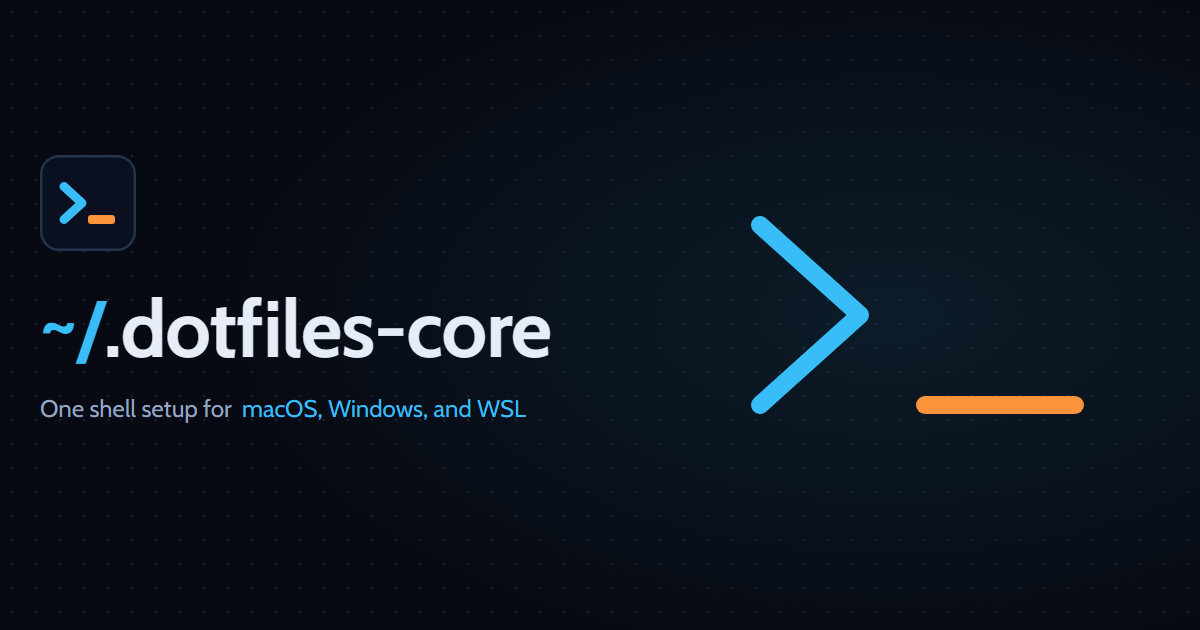
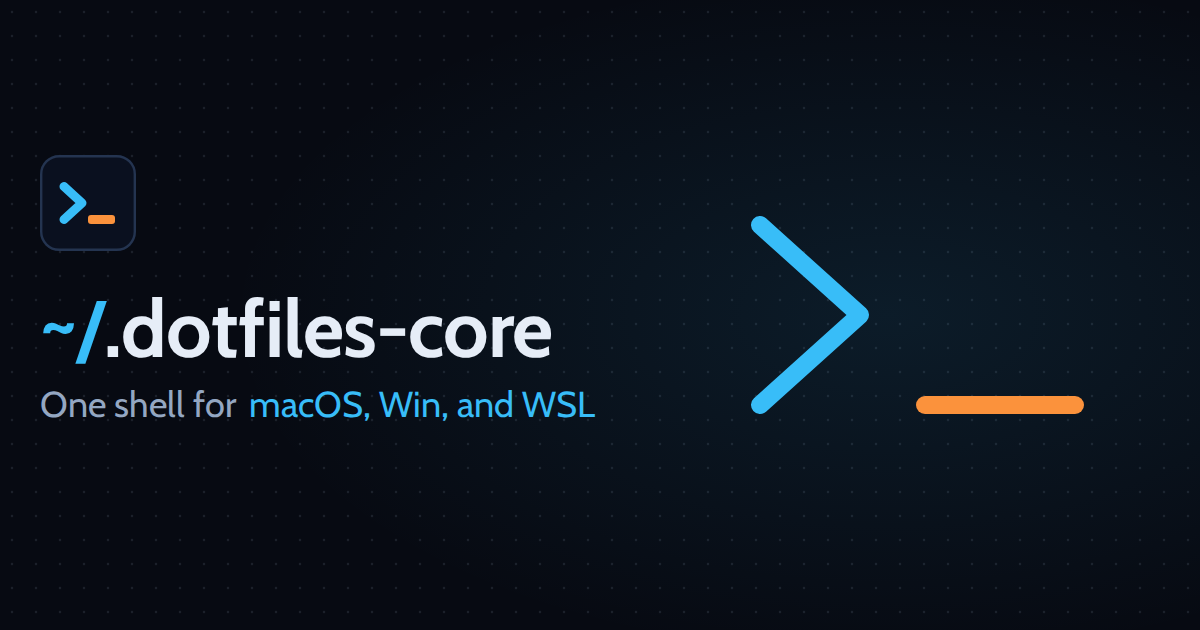
fix(brand): shorten the image tagline and cut 1.4.1 (#21)

Changed region(s): [[0.1233, 0.4825, 0.4625, 0.573], [0.0308, 0.6032, 0.4933, 0.6635]]

diff --git a/site/index.html b/site/index.html
@@ -30,12 +30,12 @@
   <meta property="og:image" content="https://dotfiles.marcopontili.com/og.png">
   <meta property="og:image:width" content="1200">
   <meta property="og:image:height" content="630">
-  <meta property="og:image:alt" content="~/.dotfiles-core: One shell setup for macOS, Windows, and WSL. A simple terminal prompt.">
+  <meta property="og:image:alt" content="~/.dotfiles-core: One shell for macOS, Win, and WSL. A simple terminal prompt.">
   <meta name="twitter:card" content="summary_large_image">
   <meta name="twitter:title" content="dotfiles-core: one shell setup for macOS, Windows, and WSL">
   <meta name="twitter:description" content="Cross-platform dotfiles for zsh, bash, Git Bash, and PowerShell. One shared sh layer, one manifest, symlinks into your home folder.">
   <meta name="twitter:image" content="https://dotfiles.marcopontili.com/og.png">
-  <meta name="twitter:image:alt" content="~/.dotfiles-core: One shell setup for macOS, Windows, and WSL. A simple terminal prompt.">
+  <meta name="twitter:image:alt" content="~/.dotfiles-core: One shell for macOS, Win, and WSL. A simple terminal prompt.">
   <script type="application/ld+json">
 {
   "@context": "https://schema.org",

diff --git a/CHANGELOG.md b/CHANGELOG.md
@@ -5,6 +5,12 @@
 - **Length:** Keep each bullet on one line, max 120 characters (link URLs do not count toward the cap, only the visible text does).
 - **Links:** Add inline markdown links for related PRs, docs, and external references when they help the reader.
 
+## [1.4.1] - 2026-10-16
+
+### Changed
+
+- Shorten the brand image tagline to "One shell for macOS, Win, and WSL" in the README, social, and Open Graph images.
+
 ## [1.4.0] - 2026-10-16
 
 ### Added

diff --git a/README.md b/README.md
@@ -1,4 +1,4 @@
-![~/.dotfiles-core: One shell setup for macOS, Windows, and WSL. A simple terminal prompt.](.github/brand/readme.png)
+![~/.dotfiles-core: One shell for macOS, Win, and WSL. A simple terminal prompt.](.github/brand/readme.png)
 
 # dotfiles-core
 
